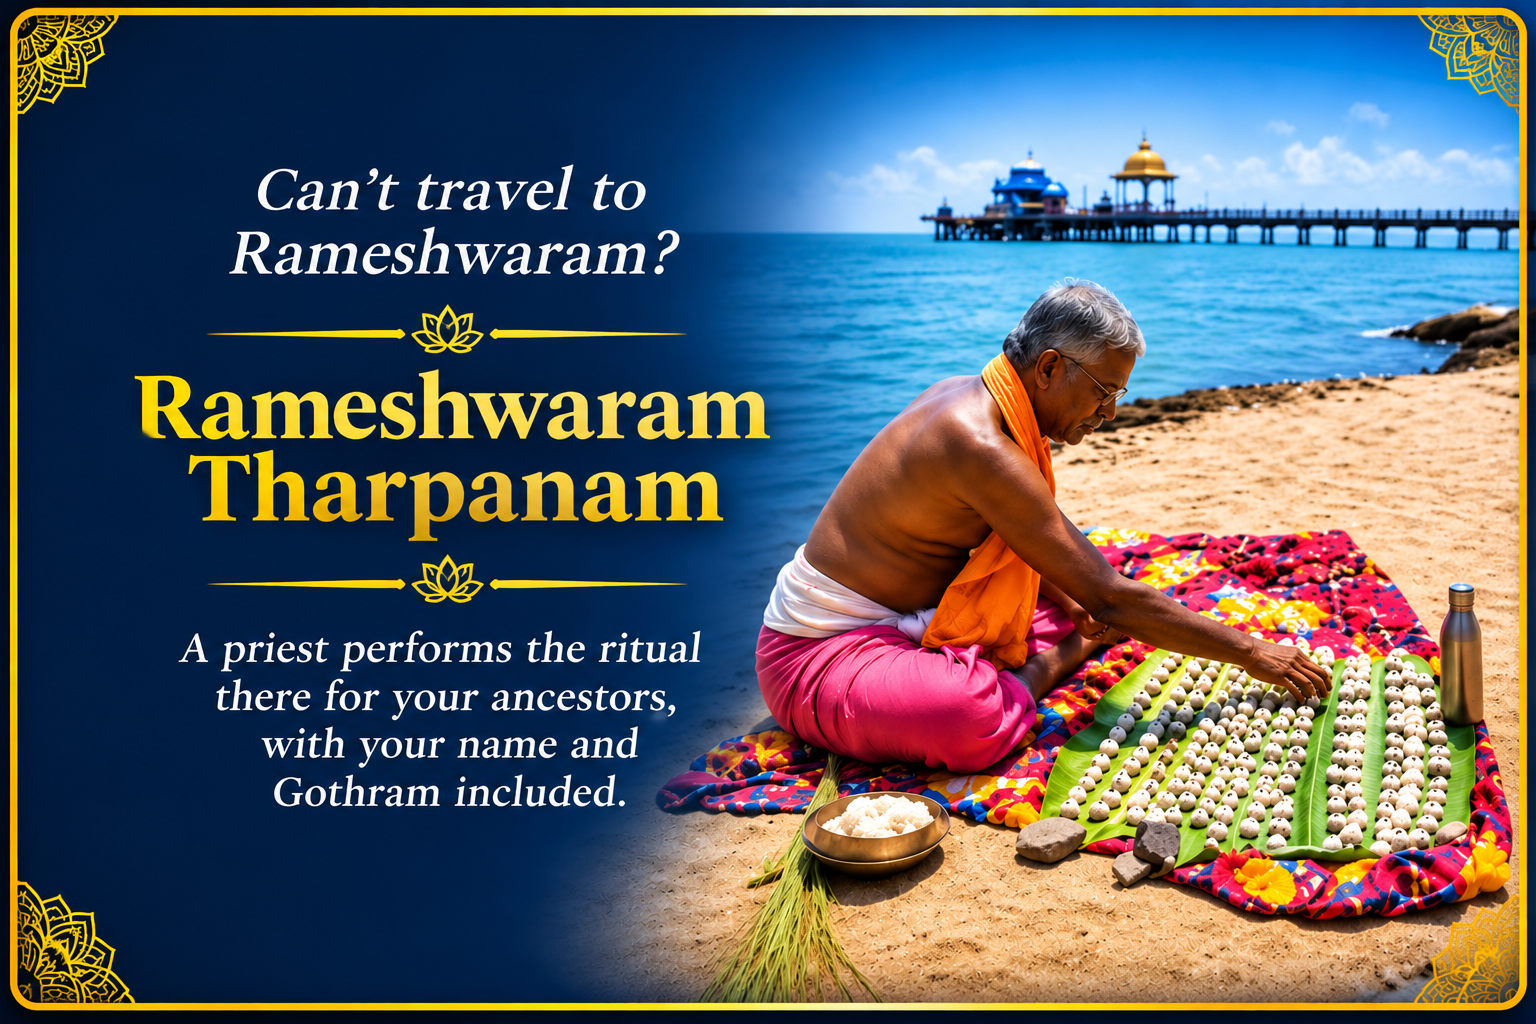
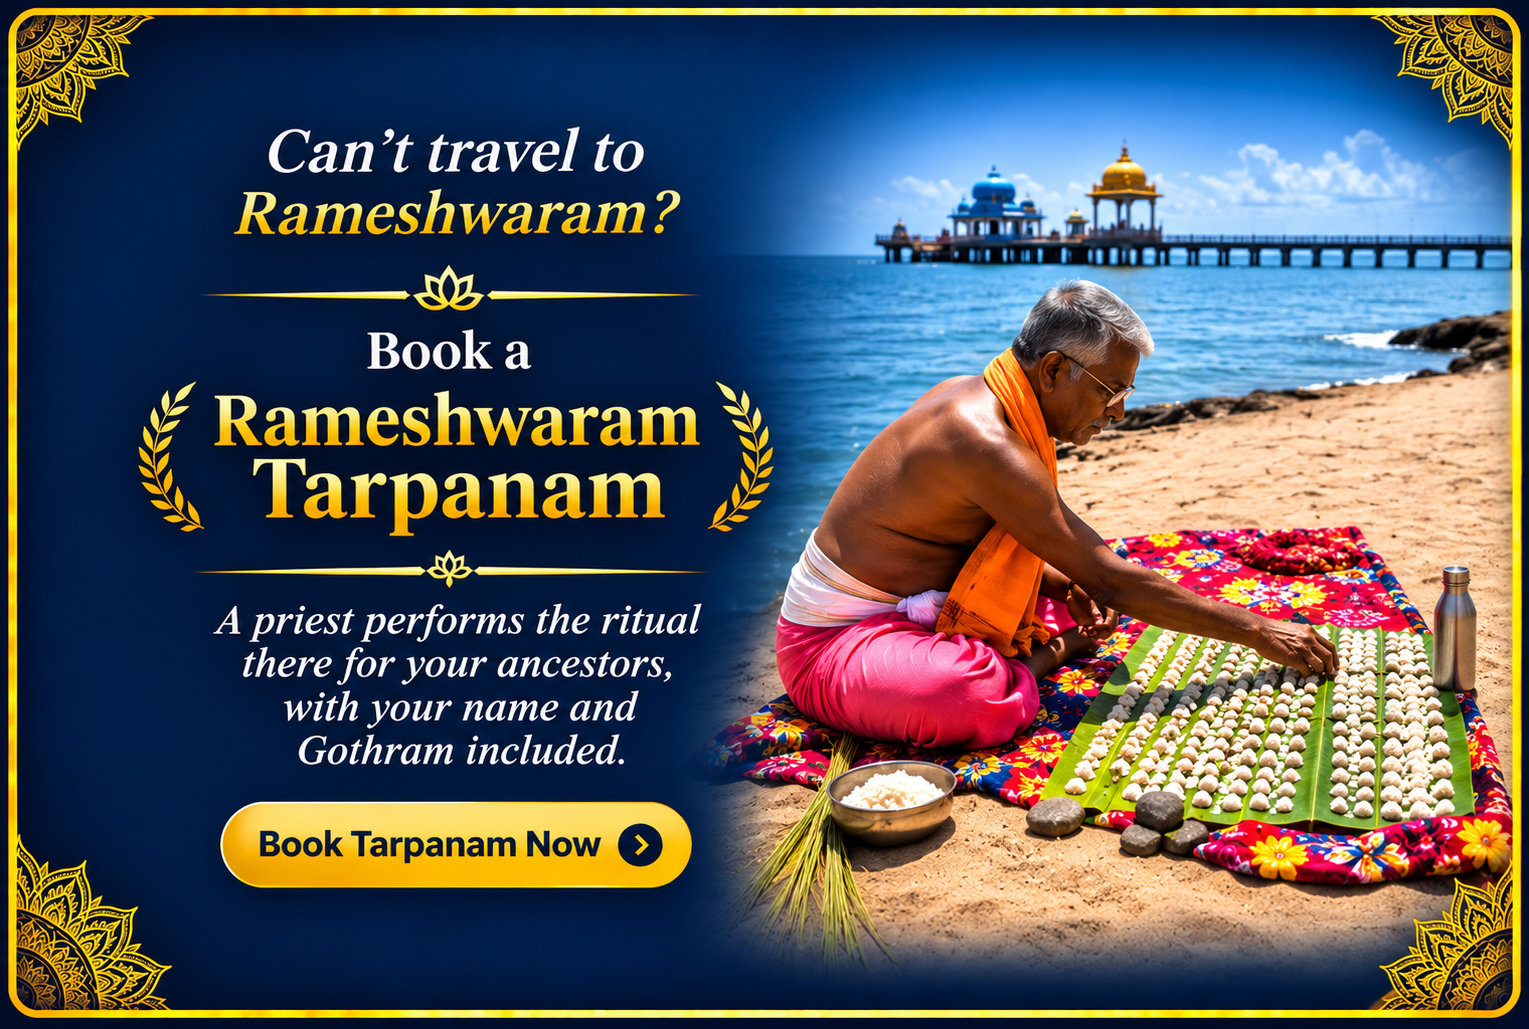
whatsapp color updated

diff --git a/client/src/app/account/page.tsx b/client/src/app/account/page.tsx
@@ -1647,7 +1647,7 @@ function AccountPageContent() {
                           className="group bg-white border border-gray-150 rounded-2xl p-5 shadow-sm hover:shadow-md transition block"
                         >
                           <div className="w-10 h-10 rounded-xl bg-primary text-white flex items-center justify-center mb-4 transition-transform group-hover:scale-105">
-                            <i className="fa-brands fa-whatsapp text-2xl text-[#25D366]"></i>
+                            <i className="fa-brands fa-whatsapp text-2xl text-white"></i>
                           </div>
                           <h4 className="text-[14px] font-bold text-gray-900 mb-1">WhatsApp Support</h4>
                           <p className="text-[11px] text-gray-500 mb-4">Reply within minutes</p>
